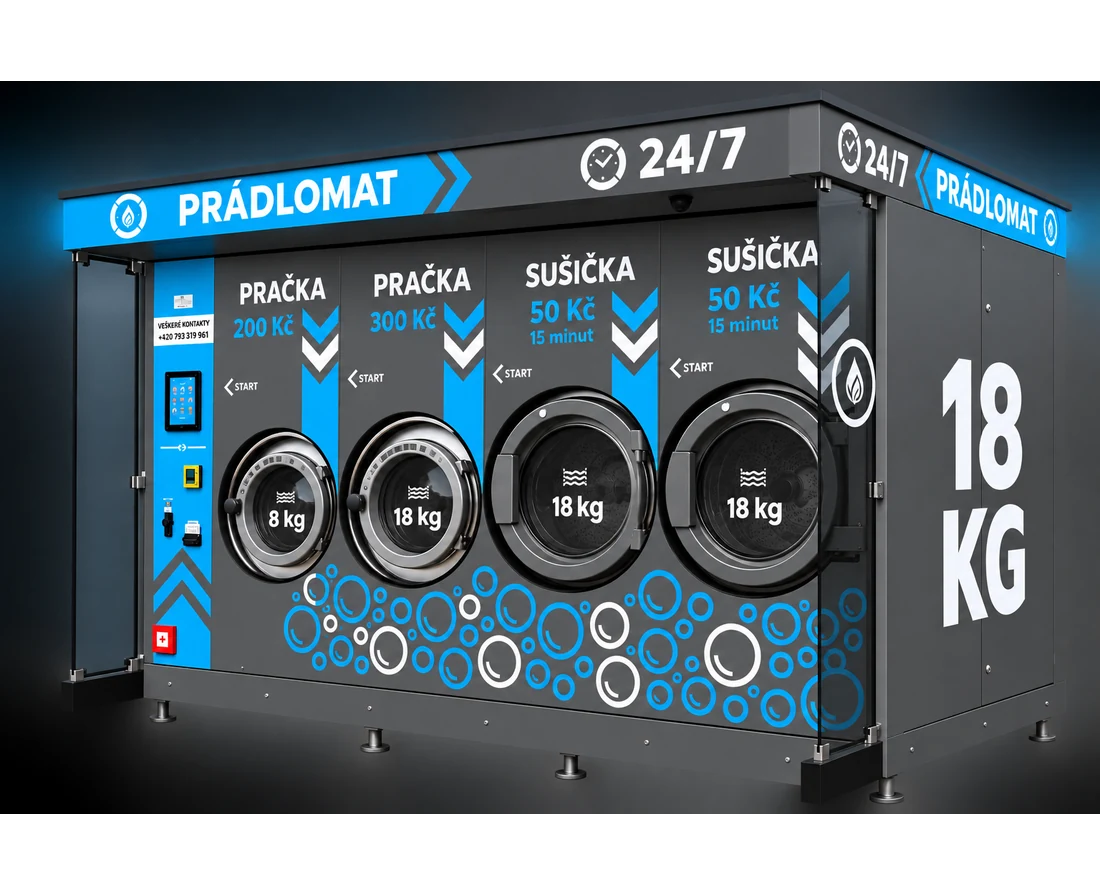
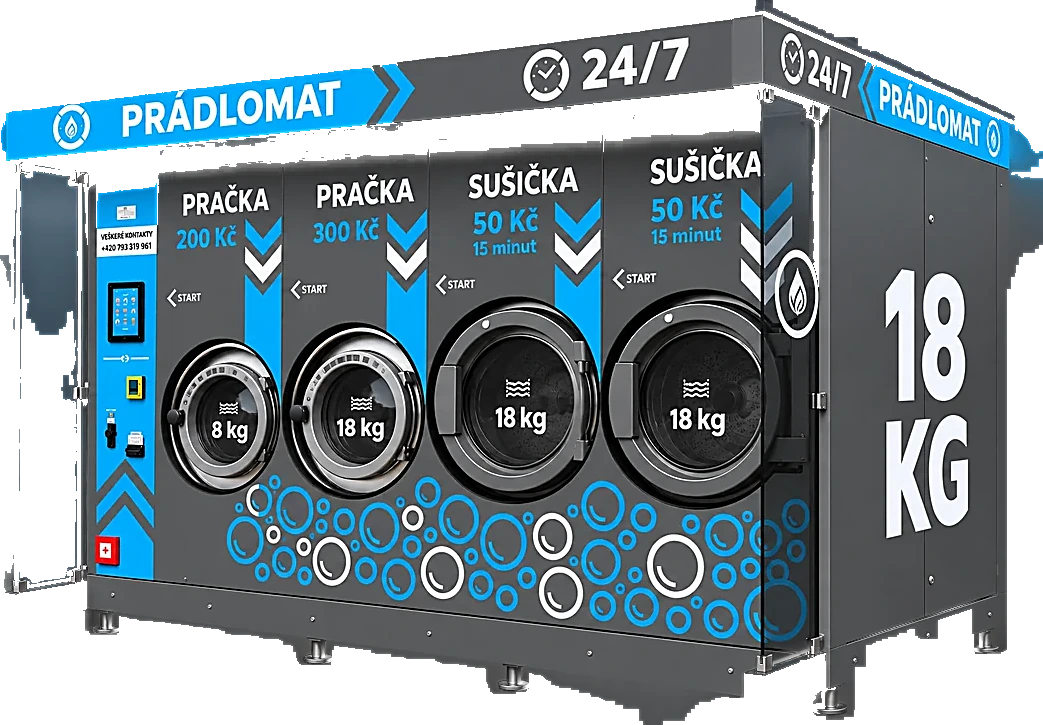
Milionar: ostrejsi fotka MAXu v obchode
Render MAXu mel natvrdo zapecene tmave studiove pozadi s modrou zari,
takze v kartice obchodu sedel stroj v tmavem obdelniku, byl mensi nez
MINI a FLEX a pusobil rozmazane. Pozadi je vyriznute (stejne jako u
ostatnich dvou), obrazek orezany na stroj a lehce doostreny. Odkaz ma
?v=2, aby se komu nenacetla stara fotka z cache.

Claude-Session: https://claude.ai/code/session_01YazjRW1A8B58KQj6b8Cni4

diff --git a/public/compounder/game/game.js b/public/compounder/game/game.js
@@ -28,7 +28,7 @@ var MODEL_ORDER = ['mini', 'flex', 'max'];
 var MODEL_IMG = {
   mini: { src: '/game/mini.webp' },
   flex: { src: '/game/flex.webp' },
-  max: { src: '/game/max.webp' }
+  max: { src: '/game/max.webp?v=2' }
 };
 var VER_OF = { mini: 'V2', flex: 'V3', max: 'V4' };
 // Fotky z ceníku HolyOS použijeme jen u verzí, pro které nemáme vlastní render.
